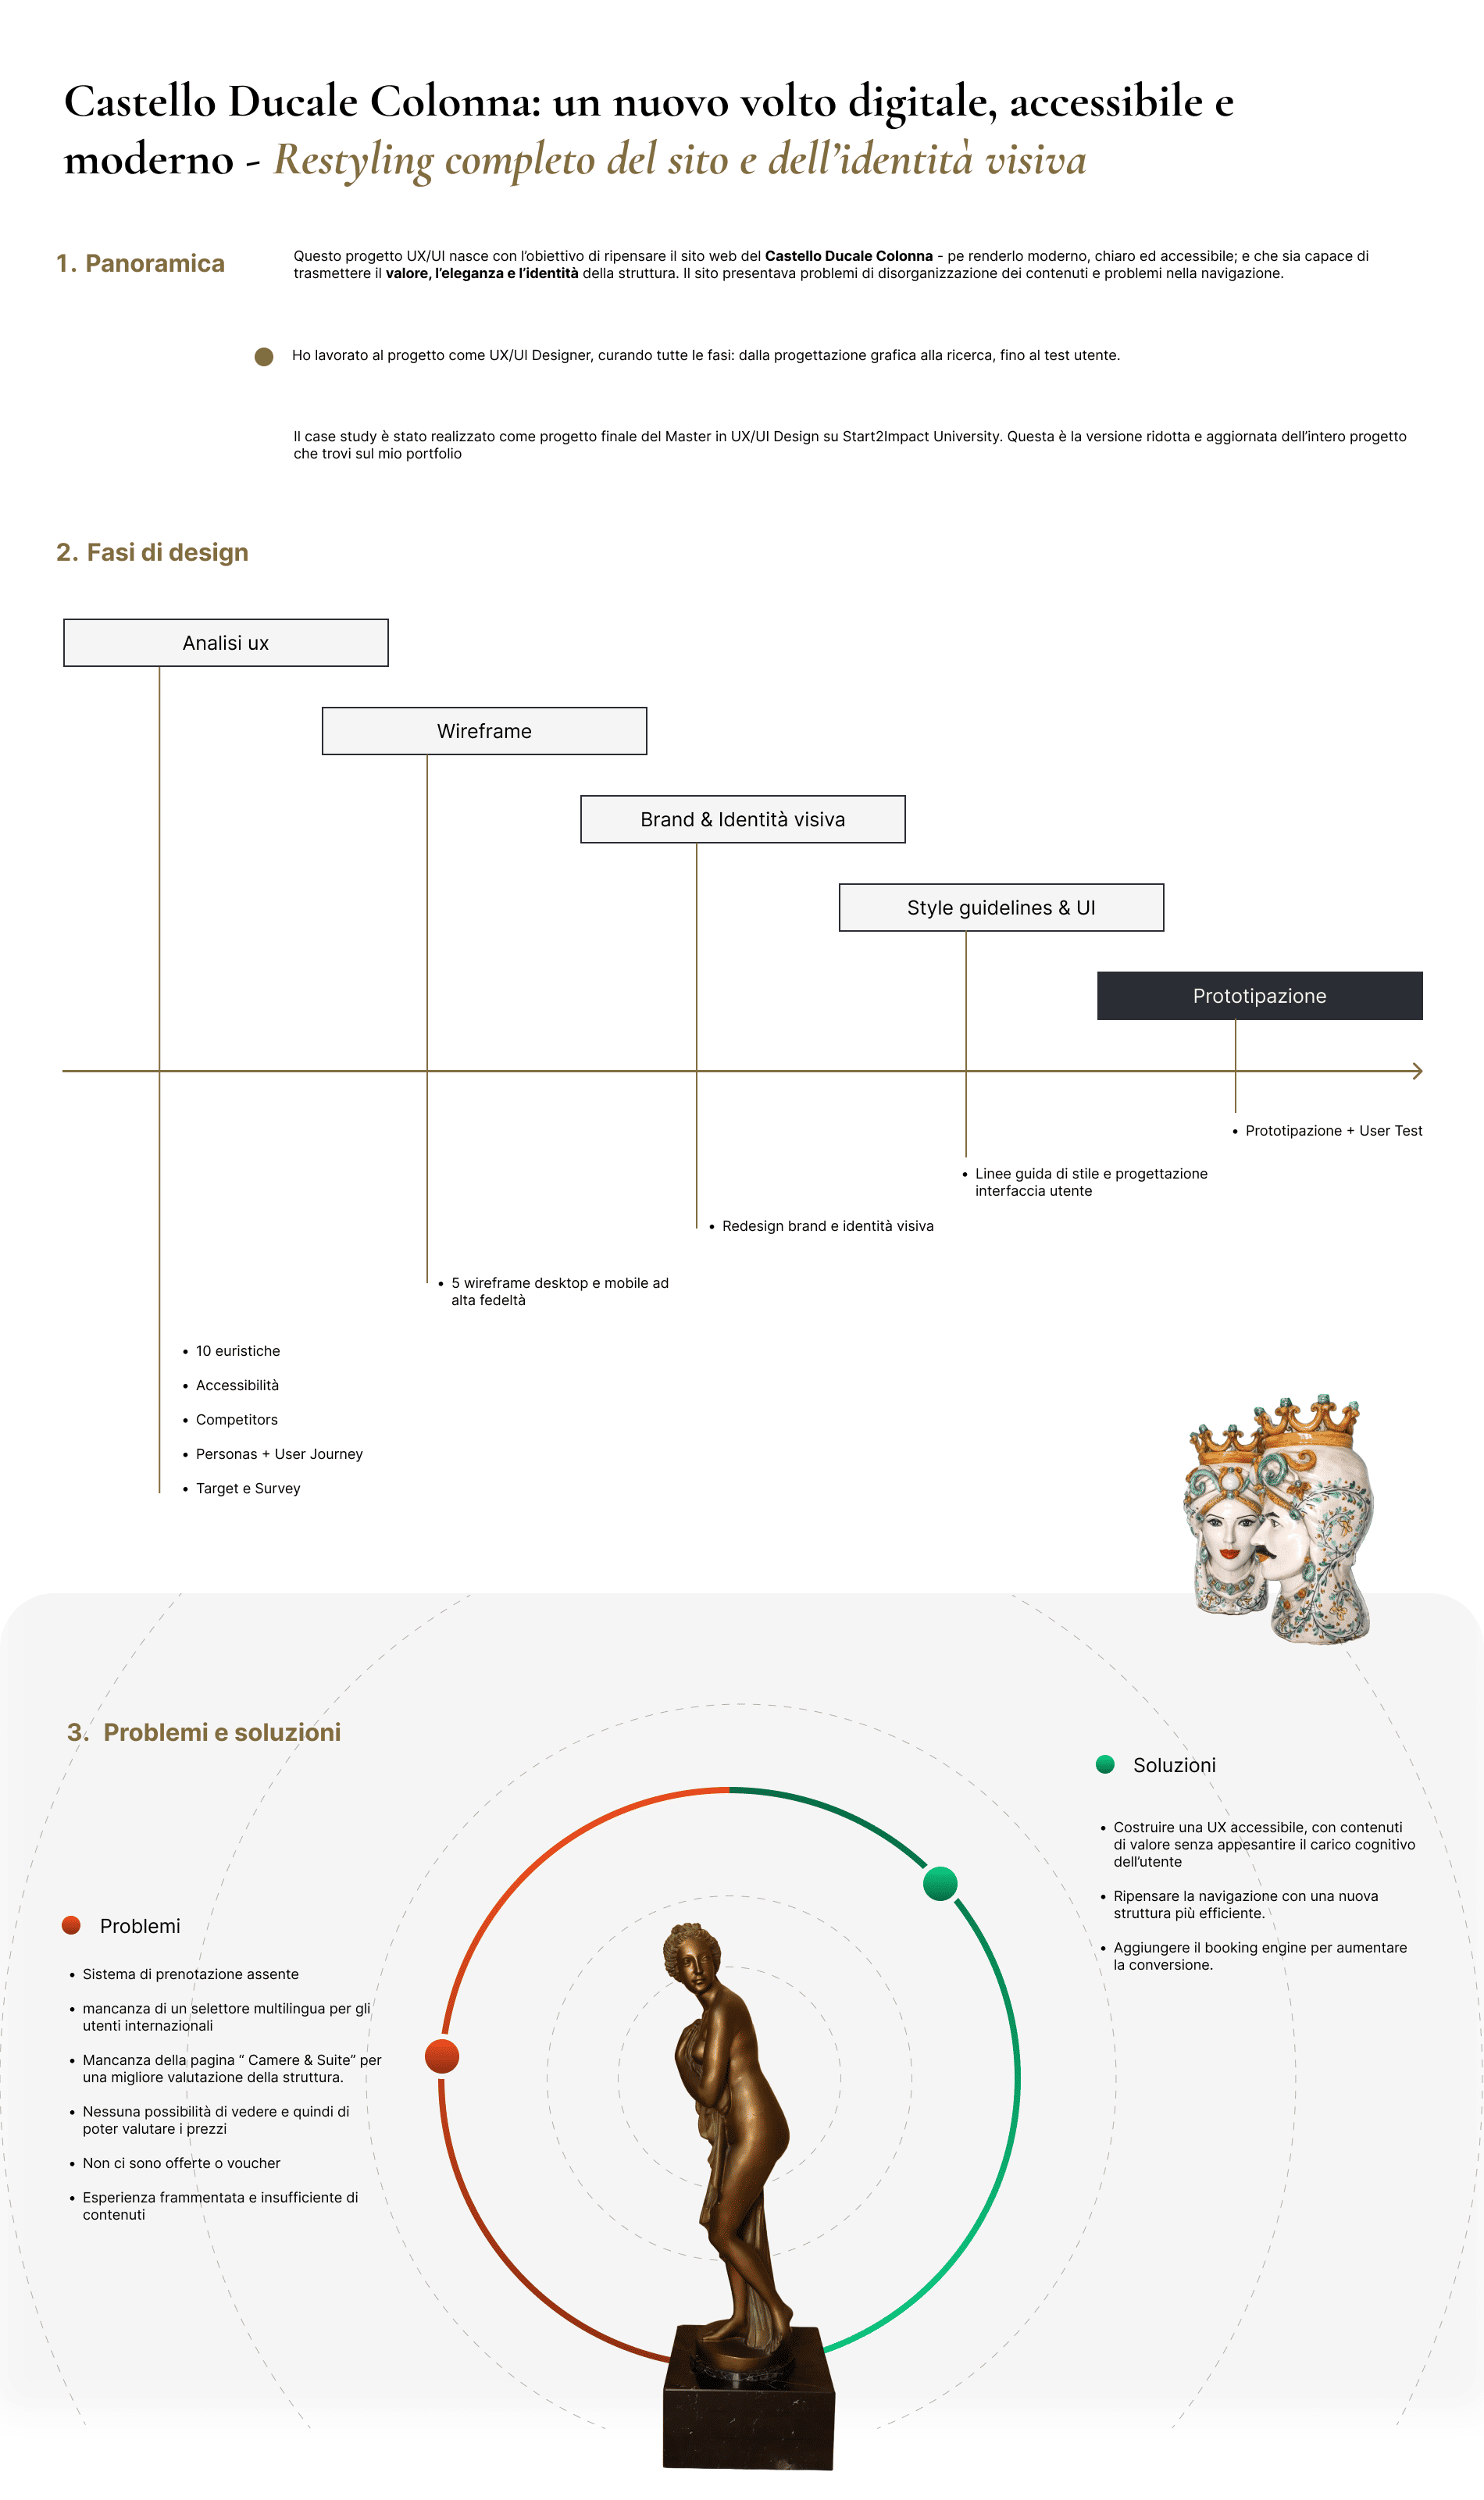
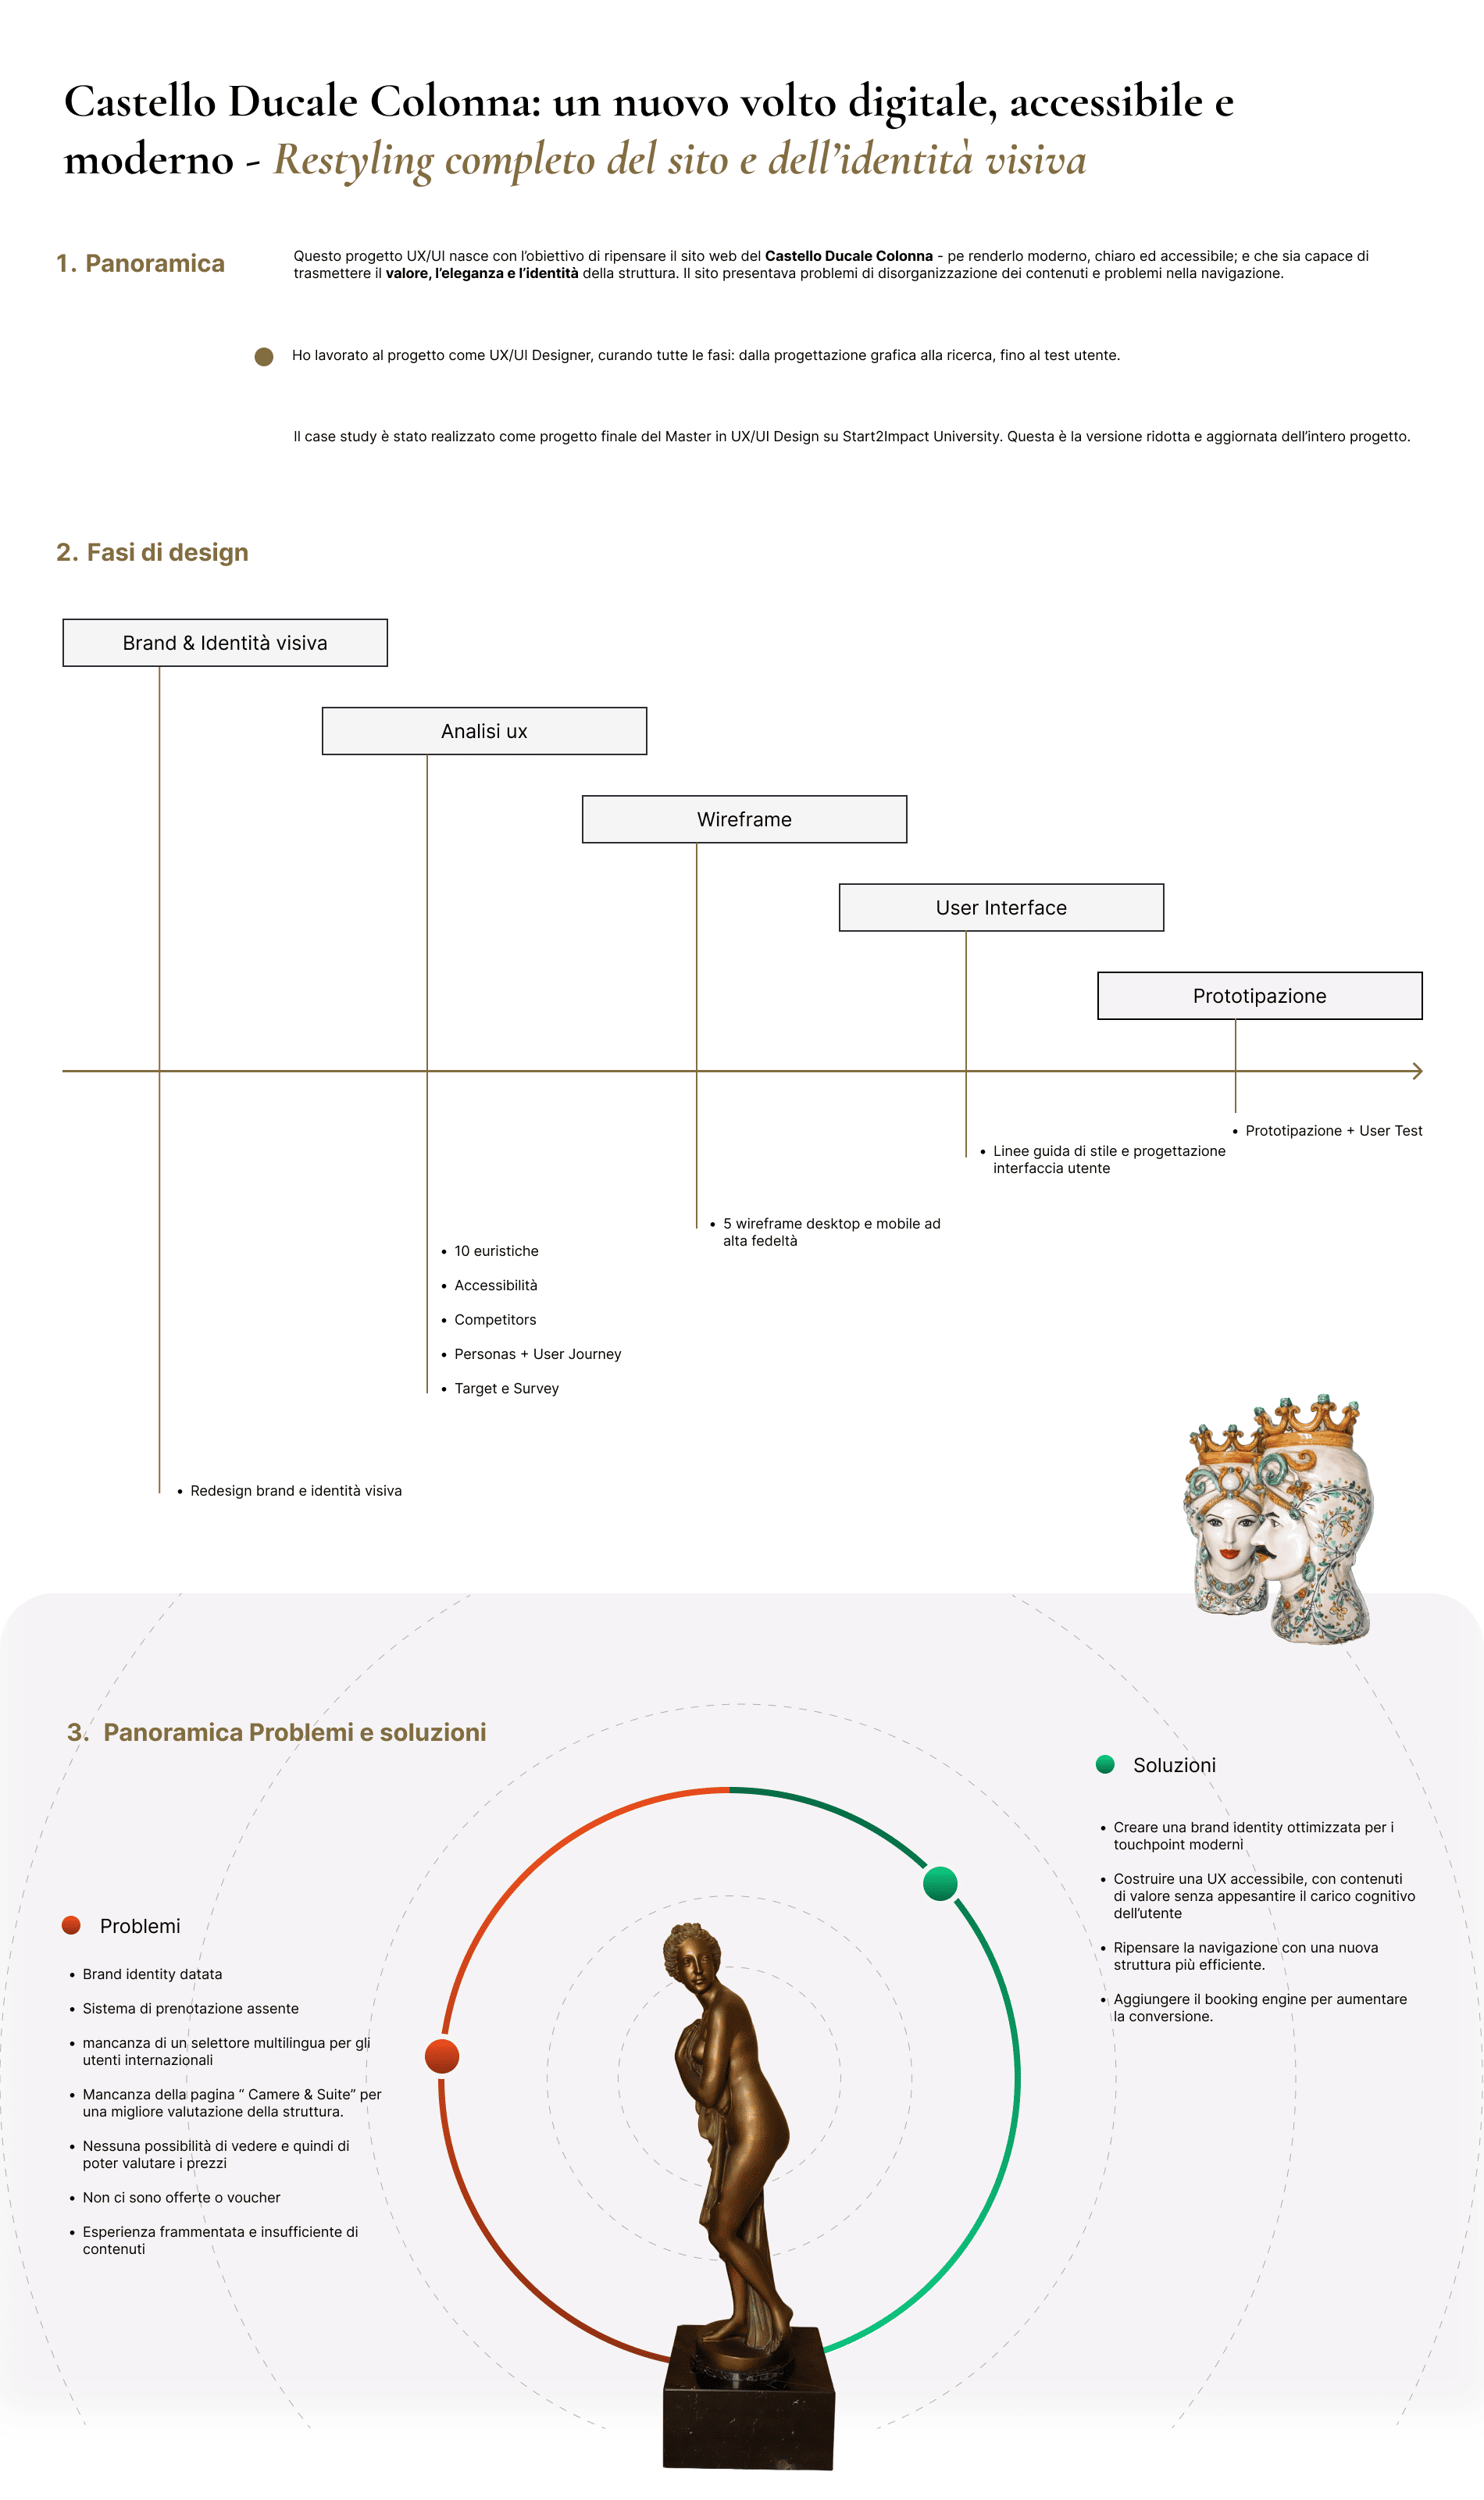
aggiornato progetto colonna

diff --git a/portfolio/Colonna/index.html b/portfolio/Colonna/index.html
@@ -106,13 +106,17 @@ Full <strong>UI redesign</strong> — including a new brand identity, logo syste
 
   <!-- immagini statiche della case study -->
   <img src="../../assets/img/cover.png" alt="Cover">
-  <img src="../../assets/img/intro.png" alt="Fase Discovery">
+  <img src="../../assets/img/brand-identity.png" alt="Fase Discovery">
 
  <!-- resto delle immagini -->
-  <img src="../../assets/img/wireframe-e-linee-guida.png" alt="User Testing">
+  <img src="../../assets/img/analisi.png" alt="User Testing">
  
 
 
+  <!-- resto delle immagini -->
+  <img src="../../assets/img/wireframe.jpeg" alt="User Testing">
+  <!-- resto delle immagini -->
+  <img src="../../assets/img/User-test.png" alt="User Testing">
   <!-- resto delle immagini -->
   <img src="../../assets/img/sviluppi futuri.png" alt="User Testing">
 